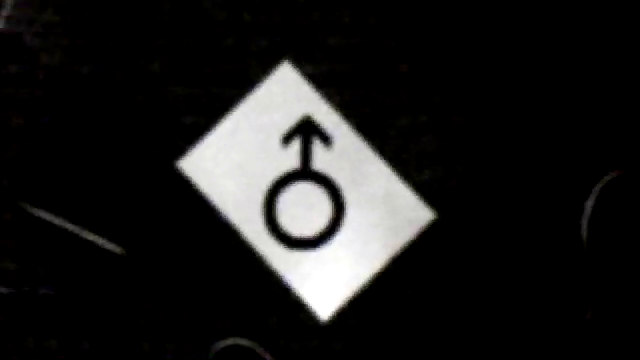
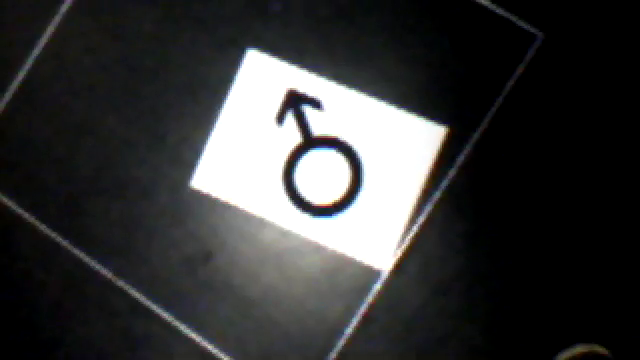
correct angle direction detection, visualize it

diff --git a/src/p3n15/flightController.py b/src/p3n15/flightController.py
@@ -276,19 +276,16 @@ class PenisController(FlightController):
             print "could not find contour of male sign"
             cv2.imshow('info', annot)
             return annot, None, None
-        cv2.drawContours(annot, contour, -1, (255, 0, 0), 3)
+        #cv2.drawContours(annot, contour, -1, (255, 0, 0), 3)
 
         # get center of the full shape
         rect = cv2.minAreaRect(contour)
-        center_of_shape = rect[0]
+        boundingCenter = rect[0]
 
         # Fit a line (to get (ambiguous) angle)
         rows, cols = thresh.shape[:2]
         indicatorLine = cv2.fitLine(contour, cv2.cv.CV_DIST_L2, 0, 0.01, 0.01)
         [vx, vy, x, y] = indicatorLine
-        lefty = int((-x * vy / vx) + y)
-        righty = int(((cols - x) * vy / vx) + y)
-        cv2.line(annot, (cols - 1, righty), (0, lefty), (0, 255, 0), 2)
         angle = math.atan2(vy, vx)
 
         # todo: check on which side of the line our arrow is
@@ -307,7 +304,7 @@ class PenisController(FlightController):
             cv2.imshow('info', annot)
             return annot, None, None
         contour = sorted(contours, key=cv2.contourArea, reverse=True)[0]
-        cv2.drawContours(annot, contour, -1, (0, 255, 0), 3)
+        cv2.drawContours(annot, contour, -1, (255, 0, 0), 3)
 
         # get circle circularity
         circumference = cv2.arcLength(contour, True)
@@ -319,24 +316,35 @@ class PenisController(FlightController):
 
         # compute the center of the circle contour
         M = cv2.moments(contour)
-        X = int(M["m10"] / M["m00"])
-        Y = int(M["m01"] / M["m00"])
-        cv2.circle(annot, (X, Y), 8, (0, 0, 255), -1)
+        x = int(M["m10"] / M["m00"])
+        y = int(M["m01"] / M["m00"])
+        circleCenter = (x,y)
+        cv2.circle(annot, circleCenter, 10, 0, -1)
+        cv2.circle(annot, circleCenter, 8, (0, 0, 255), -1)
 
-        #print "angle: {}, position: {}, {}".format(angle, X, Y)
+        # get direction of line and draw it
+        direction = self.calcVectorDirection(circleCenter, boundingCenter, indicatorLine)
+        arrowHead = (x + 200 * direction * vx, y + 200 * direction * vy)
+        cv2.line(annot, circleCenter, arrowHead, cv2.cv.CV_RGB(0,0,0), 5)
+        cv2.line(annot, circleCenter, arrowHead, cv2.cv.CV_RGB(0,255,0), 3)
 
+
+        # get distance of circle center from image center
         imgH, imgW, _ = img.shape
-        dist = math.hypot(X - imgW/2.0, Y - imgH/2.0)
+        dist = math.hypot(x - imgW/2.0, y - imgH/2.0)
 
         #print dist
 
         cv2.imshow('info', annot)
 
-        circleCenter = (x,y)
-        boundingCenter = center_of_shape
-        line = indicatorLine
+        angle += direction * math.pi
 
-        direction = self.calcVectorDirection(circleCenter, boundingCenter, indicatorLine)
+        while angle > math.pi:
+            angle -= 2 * math.pi
+        while angle < -math.pi:
+            angle += 2 * math.pi
+
+        print "angle: {}, position: {}, {}".format(angle * 180.0 / math.pi, x, y)
 
         return annot, angle, dist
 
@@ -362,9 +370,6 @@ class PenisController(FlightController):
 if __name__ == "__main__":
     penis = PenisController(None)
     img = cv2.imread("img/up.png")
-    img, x, y = penis.analyzeImage(img)
-    print img
-    if img is not None:
-        cv2.imshow('info', img)
+    penis.analyzeImage(img)
     cv2.waitKey(0)
     exit(0)
